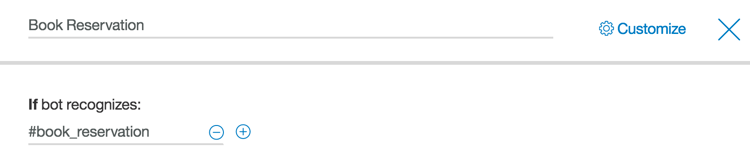
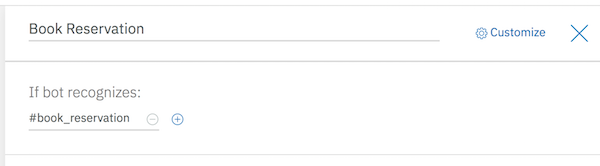
updated screenshots

diff --git a/training.md b/training.md
@@ -1,10 +1,10 @@
-# Introduction to Watson Conversation
+# Introduction to Watson Assistant
 
-Watson Conversation service combines machine learning, natural language understanding, and integrated dialog tools to create conversation flows between your apps and your users. In this lab, you will create a workspace and understand the terminology of creating a chatbot.
+The Watson Assistant service combines machine learning, natural language understanding, and integrated dialog tools to create conversation flows between your apps and your users. In this lab, you will create a workspace and understand the terminology of creating a chatbot.
 
 # Step 1: Designing Your Bot
 
-Building a chatbot with Watson Conversation is so easy, some developers choose to dive right into the tooling. However, with a well-thought out, well-planned chatbot, the interaction with the user can lead to a much better experience that can handle edge cases. In this section, we will design the interaction between a user, Dave, and a chatbot named HungerBot.
+Building a chatbot with Watson Assistant is so easy, some developers choose to dive right into the tooling. However, with a well-thought out, well-planned chatbot, the interaction with the user can lead to a much better experience that can handle edge cases. In this section, we will design the interaction between a user, Dave, and a chatbot named HungerBot.
 
 A good question to ask yourself is, "Who is my user and what problem do they have?" Expand on the user's profile by determining what the user needs from this chatbot. Does the user have a need to book a reservation at a restaurant? Or an answer to a common question like "Where's the bathroom?" at a conference. Maybe a chatbot that handles tasks like turning on lights or other equipment. It might help to think of the chatbot as an automated version of an existing agent, such as a customer service agent. Look at existing processes that include repeated manual processes, which can sometimes be augmented with chatbots.
 
@@ -12,19 +12,19 @@ Training a chatbot is like training a human agent. You will train the chatbot wi
 
 In the following steps, we have provided a sample restaurant chatbot that handles reservations for a restaurant. On the right side, it's your turn to create your own chatbot. Fill in the blanks to design your chatbot.
 
-1.  Envision the user that interacts with the bot.
+1. Envision the user that interacts with the bot.
 
     |Example:|Your turn:|
     |------------------------------------------------|------------------------------------------|
     |A user, named Dave, needs to book a table at the restaurant.|A user, named _______________________, needs to _______________________________________.|
 
-2.  Now, let's give the chatbot a name and describe the overall function it can help with.
+2. Now, let's give the chatbot a name and describe the overall function it can help with.
 
     |Example:|Your turn:|
     |------------------------------------------------|-----------------------------------------|
     |The chatbot, named HungerBot, can help the user with common tasks at a restaurant.|The chatbot, named _______________________, can help the user with ________________________.|
 
-3.  It can be helpful to take a snapshot of an existing dialogue and then break it down into intents and entities. A sample conversation is shown below. Keep the conversation simple…you can always add more complex logic later.
+3. It can be helpful to take a snapshot of an existing dialogue and then break it down into intents and entities. A sample conversation is shown below. Keep the conversation simple…you can always add more complex logic later.
 
     |Example:|Your turn:|
     |------------------------------------------------|-----------------------------------------|
@@ -38,7 +38,7 @@ In the following steps, we have provided a sample restaurant chatbot that handle
     |Dave: Five people|User: |
     |HungerBot: Excellent! Here are the details of your booking.|Bot: |
 
-4.  Let's start with the action the user wants to do, which is referred to as an intent. Write a human-friendly description of the action the user is wanting to perform. List at least five ways the user might phrase this action. Lastly, add a label, like a variable name in code (alpha-numeric, underscores, etc.), that can be used later as a reference.
+4. Let's start with the action the user wants to do, which is referred to as an intent. Write a human-friendly description of the action the user is wanting to perform. List at least five ways the user might phrase this action. Lastly, add a label, like a variable name in code (alpha-numeric, underscores, etc.), that can be used later as a reference.
 
     |Example:|Your turn:|
     |------------------------------------------------|-----------------------------------------|
@@ -53,7 +53,7 @@ In the following steps, we have provided a sample restaurant chatbot that handle
 
   	If you find that you don't have many variations, invite a friend (or a real user!) to suggest how they would ask "*to book a reservation.*" In the real world, you could use customer interactions as a base of inspiration or use a thesaurus.
 
-5.  Another component to training a chatbot is recognizing objects, which is referred to as an entity. This example reservation system can differentiate different types of cuisine. We add a type of cuisine to booking a reservation.
+5. Another component to training a chatbot is recognizing objects, which is referred to as an entity. This example reservation system can differentiate different types of cuisine. We add a type of cuisine to booking a reservation.
 
     |Example:|Your turn:|
     |------------------------------------------------|-----------------------------------------|
@@ -68,127 +68,151 @@ In the following steps, we have provided a sample restaurant chatbot that handle
 
     We could add time and number entities, however, there are some built-in system entities provided by IBM, like numbers, dates, and times, that the HungerBot will use. If you have another entity, define the additional entity in a new table.
 
-In the Dialog editor of Watson Conversation, we can now setup logic to step the user through the conversation. In the next section, we will use this design to train the Watson Conversation service.
+In the Dialog editor of Watson Assistant, we can now setup logic to step the user through the conversation. In the next section, we will use this design to train the Watson Assistant service.
 
-# Step 2: Train Watson Conversation Service
+# Step 2: Train Watson Assistant Service
 
-Now that we have designed the first dialogue between the chatbot and the user, we can train the Watson Conversation service. Sign up for an IBM Cloud account at bluemix.net. If you already have an account, sign into your account.
+Now that we have designed the first dialogue between the chatbot and the user, we can train the Watson Assistant service. Sign up for an IBM Cloud account at [bluemix.net](https://bluemix.net). If you already have an account, sign into your account.
 
-1.  **Click on the Catalog** link in the top-right corner of the IBM Cloud dashboard.
+1. Click on the **Catalog** link in the top-right corner of the IBM Cloud dashboard.
 
-2.  **Select the Watson Conversation** tile under the section titled Watson.
+2. Select the **Watson Assistant** tile under the section titled Watson.
 
     ![IBM Cloud catalog](assets/catalog.png)
 
-3.  Enter `my-conversation-service` in the field labeled Service name. Click on **Create**.
+3. You can choose a custom name for the service, or leave it as the default value. Select the region, organization, and space desired. Click on **Create**.
 
     ![Enter Service Name](assets/servicename.png)
 
-4.  Click on the green **Launch tool** button to launch into the Watson Conversation tooling.
+4. Click on the **Launch tool** button to launch into the Watson Assistant tool.
 
     ![Launch Tool](assets/launchtool.png)
 
-5.  This is the Watson Conversation tooling where you can create workspaces and setup different chatbots dialogues and applications. There is an example Cognitive Car Dashboard workspace where you can see a more evolved training. However, we'll create a new workspace for our bot to use. Click on the **Create** button in the box labeled **Create a new workspace**.
+5. This is the Watson Assistant tool where you can create workspaces and setup different chatbots dialogues and applications. Select the tab labeled **Workspaces**.
+
+    ![Watson Assistant Start Page](assets/startpage.png)
+
+6. There is an example Cognitive Car Dashboard workspace where you can see a more evolved training. However, we'll create a new workspace for our bot to use. Click on the **Create** button in the box labeled **Create a new workspace**.
 
     ![Workspaces](assets/workspaces.png)
 
-6.  Enter a name for the chatbot and a description. Click **Create** when finished.
+7. Enter a name for the chatbot and a description. Click **Create** when finished.
 
     ![Create workspace](assets/createworkspace.png)
 
-7.  You will be redirected into a page with three tabs, Intents, Entities, and Dialog. Under the Intents tab, click on **Create new** to create the first intent.
+8. You will be redirected into a page with three tabs: Intents, Entities and Dialog. Under the Intents tab, click **Add new** to create the first intent.
 
-8.  Use the answers you wrote in Step 1 to create the first intent. Click on **Done** when finished.
+    ![Add New Intent](assets/addnew.png)
+
+9. Use the answers you wrote in Step 1 to create the first intent.
 
     ![Create intent](assets/intents.png)
 
-9.  **Click on the Entities** tab in the top menu bar. This is where you can add entities. Add the entity you wrote in Step 1. Click **Done** when finished.     
+10. Click on the **Entities** tab in the top menu bar. This is where you can add entities. Add the entity you wrote in Step 1. 
 
     ![Create entity](assets/entities.png)
 
-10. The Watson Conversation has a handful of common entities created by IBM that can be used across any use case. These entities include: date, time, currency, percentage, and numbers. **Click on System entities**. Toggle on the switch for `@sys-time`, `@sys-date`, and `@sys-number` to enable the entities.
+11. The Watson Assistant service has a handful of common entities created by IBM that can be used across any use case. These entities include: date, time, currency, percentage, and numbers. Click on **System entities**. Toggle on the switch for `@sys-time`, `@sys-date`, and `@sys-number` to enable the entities.
 
     ![Enable System Entities](assets/systementities.png)
 
-11. **Click on the Dialog tab** in the top menu bar. Click **Create**. There are two nodes added by default. The `welcome` condition is triggered when the chatbot is initially started. This is a good place to introduce the bot and suggest actions the user can ask of this chatbot.    
+12. Click on the **Dialog** tab in the top menu bar. Click **Create**. There are two nodes added by default. The `welcome` condition is triggered when the chatbot is initially started. This is a good place to introduce the bot and suggest actions the user can ask of this chatbot.    
 
-    ![Create dialog](assets/dialog.png)
+    ![Create dialog](assets/dialog.png) 
 
-12. The second node checks for the condition `anything_else`. In the event the user enters something that wasn't expected, the service will return this response. Ideally, it should convey a way for the user to recover, such as example phrases.    
+13. The second node checks for the condition `anything_else`. In the event the user enters something that wasn't expected, the service will return this response. Ideally, it should convey a way for the user to recover, such as example phrases.    
 
     ![Create anything_else node](assets/anything_else.png)
 
-13. Return back to the `welcome` node and click on the three dots on the right side of the node. Select **Add node below** from the menu.    
+14. Return back to the `welcome` node and click on the three dots on the right side of the node. Select **Add node below** from the menu.    
 
     ![Add node below](assets/addnode.png)
 
-14. Add a node to test the condition of the first intent, `#book_reservation`, as shown below.     
+15. Add a node to test the condition of the first intent you created, `#book_reservation`, as shown below. Click on **Customize** in the top right corner. 
 
     ![Book Reservation](assets/bookreservation.png)
 
-15. **Click on Customize** in the top right corner. Enable Slots and Prompt for everything.
+16. Toggle the slider labeled **Slots** and tick the box labeled **Prompt for everything**. Click **Apply**. Slots will help to gather multiple pieces of information needed in order to book a reservation.
 
     ![Enable Slots](assets/enableslots.png)
 
-16. Add a slot for `@cuisine`, with the prompt `What type of cuisine would you like?`    
+17. Add a slot for `@cuisine`, with the prompt:
+
+    `What type of cuisine would you like?`
 
     ![Add cuisine slot](assets/addslots1.png)
 
-17. Add another slot for `@sys-date`, with the prompt `What day would you like to reserve?`    
+18. Add another slot for `@sys-date`, with the prompt:
+    
+    `What day would you like to reserve?`    
 
     ![Add date slot](assets/addslots2.png)
 
-18. Add another slot for `@sys-time`, with the prompt `What time would you like to reserve?`    
+19. Add another slot for `@sys-time`, with the prompt:
+
+    `What time would you like to reserve?`    
 
     ![Add date slot](assets/addslots3.png)
 
-19. Add another slot for `@sys-number`, with the prompt `How many people will be coming?`    
+20. Add another slot for `@sys-number`, with the prompt:
+
+    `How many people will be coming?`    
 
     ![Add size slot](assets/addslots4.png)
 
-20. If no slots are prefilled, prompt the user to provide a cuisine.    
+21. If no slots are prefilled, prompt the user to provide a cuisine: 
+
+    `Sure, I can help make a reservation. What type of cuisine did you want?`    
 
     ![Add initial slot](assets/addslots5.png)
 
-21. Have the bot respond with the details of the reservation. The <? … ?> syntax uses the values stored in the context and injects the values into the response.
+22. Have the bot respond with the details of the reservation: 
+
+    ```
+    Great! I've booked a table for <? $number ?> people on <? $date ?> at <? $time ?> for <? $cuisine ?>.
+    ```
+
+    The <? … ?> syntax uses the values stored in the context and injects the values into the response.
 
     ![Respond with confirmation](assets/respond.png)
 
-# Step 3: Test Watson Conversation Service
+# Step 3: Test Watson Assistant Service
 
-The Watson Conversation tooling offers a testing panel to test phrases to confirm the correct intents, entities, and dialog are matched and returned.
+The Watson Assistant tool offers a testing panel to test phrases to confirm the correct intents, entities, and dialog are matched and returned.
 
-1.  To test the bot, **click on the Ask Watson icon** in the top-right corner of the tooling.    
+1. To test the bot, click on the **Try It** button in the top-right corner of the tool.    
 
     ![Ask Watson](assets/askwatson.png)
 
-2.  A side panel appears and shows the contents of the node that matches welcome. Enter a message that triggers the `#book_reservation` intent. We can ask `book a table`    
+2. A side panel appears and shows the response of the node that matches welcome. Enter a message that triggers the `#book_reservation` intent. We can ask `book a table`    
 
     ![Book Reseration](assets/test-intro.png)
 
-3.  Notice that the intent `#book_reservation` was recognized. The `#book_reservation` node was triggered and the output includes the response from the Book Reservation node. The user is prompted for a choice of cuisine.     
+3. Notice that the intent `#book_reservation` was recognized. The `#book_reservation` node was triggered and the output includes the response from the Book Reservation node. The user is prompted for a choice of cuisine.     
 
     ![Book Reseration](assets/test-bookreservation.png)
 
-4.  When the user enters a cuisine, the `@cuisine` entity is recognized.     
+4. When the user enters a cuisine, the `@cuisine` entity is recognized with a value `american`.
 
     ![Enter type of cuisine](assets/test-cuisine.png)
 
-5.  When the user enters a date or time, Watson extracts out the value using the system entities `@sys-date` and `@sys-time`.     
+5. When the user enters a date or time, Watson extracts out the value using the system entities `@sys-date` and `@sys-time`.     
 
     ![Enter date and time](assets/test-date.png)
 
-6.  Finally, when the user enters a number (either numerically or spelled out) for the number of people in the reservation, Watson extracts out the number using the system entity `@sys-number`.    
+6. Finally, when the user enters a number (either numerically or spelled out) for the number of people in the reservation, Watson extracts out the number using the system entity `@sys-number`.    
+
+    When all the required information (slots) is provided, the chatbot responds with a summary of the reservation. The provided valudes are injected into the response.
 
     ![Enter number in party](assets/test-size.png)   
 
 ## Summary
 
-The Watson Conversation service was able to handle gathering multiple pieces of information, parsing the user input, and placing the values into a context that was used to inject into the response back to the user.
+The Watson Assistant service was able to handle gathering multiple pieces of information, parsing the user input, and placing the values into a context that was used to inject into the response back to the user.
 
 ## License
 
-© Copyright IBM Corporation 2017
+© Copyright IBM Corporation 2018
 
 IBM, the IBM logo and ibm.com are trademarks of International Business Machines Corp., registered in many jurisdictions worldwide. Other product and service names might be trademarks of IBM or other companies. A current list of IBM trademarks is available on the Web at &quot;Copyright and trademark information&quot; at www.ibm.com/legal/copytrade.shtml.
 
